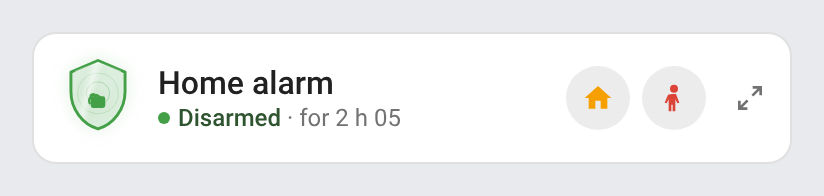
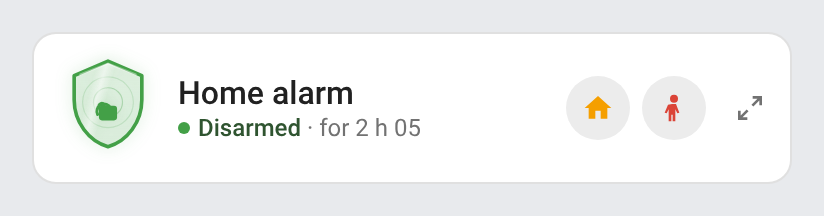
fix: enlarge the compact mini state shield to 50 px (1.10.3) (#67)
## Summary

Aligns the compact mini card's state shield with the illustration size
used on the other ha-* mini cards (e.g. ha-smartlock-card): it now
renders at **50 px** instead of 40 px.

- Only the compact mini state shield grows; the logo badge (`show_logo:
true`) keeps its 40 px, and the full card and hero are unchanged.
- Unit test updated to the new size.

Patch bump to **1.10.3**.

## Checks
`npm run check`, Biome, `jscpd` and `node --test` pass locally
(Playwright layout tests run in CI).

---
_Generated by [Claude
Code](https://claude.ai/code/session_01F4sAmzq3nMo8jDX27V9UKy)_

---------

diff --git a/src/alarm-card.js b/src/alarm-card.js
@@ -3468,8 +3468,9 @@ const MINI_STYLE = `
   .header.with-pad { padding-bottom: 0; }
   .header .titles { margin-block: -2px; flex: 1 1 0; min-width: 64px; }
   .actions { display: flex; align-items: center; gap: 10px; margin-left: auto; flex: 0 1 auto; min-width: 0; max-width: 100%; }
-  /* The header icon keeps the full card's size (the 40 px badge); the shield (show_logo: false) matches it. */
-  .header .shield { width: 40px; height: 40px; }
+  /* The state shield (the default compact-mini icon) is shown a bit larger, like the picture on the other ha-*
+     mini cards; the logo badge (show_logo: true) keeps the 40 px header size. */
+  .header .shield { width: 50px; height: 50px; }
   .header .shield .icon { width: 24px; height: 24px; }
   /* The state wraps (the line itself ends in an ellipsis for the time or the sensor after it): never cut at
      phone width (6 columns, ~156-178 px) in long languages ("Uzbrojony (poza domem)", "Aktiviran u odsustvu"). */

diff --git a/CHANGELOG.md b/CHANGELOG.md
@@ -1,5 +1,10 @@
 # Changelog
 
+## 1.10.3 - 2026-11-15
+
+### Fixes
+- **Compact mini icon size**: the state shield on the compact mini card is shown a bit larger (50 px), to line up with the illustration size on the other ha-* mini cards. The logo badge (`show_logo: true`) keeps its 40 px.
+
 ## 1.10.2 - 2026-11-15
 
 ### Fixes
